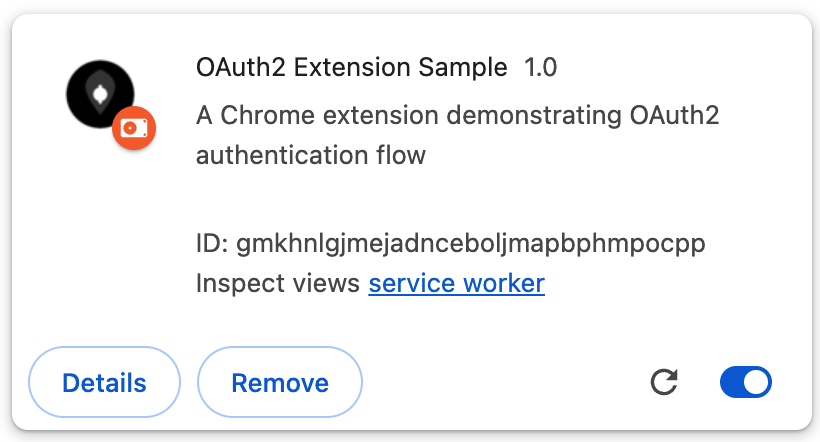
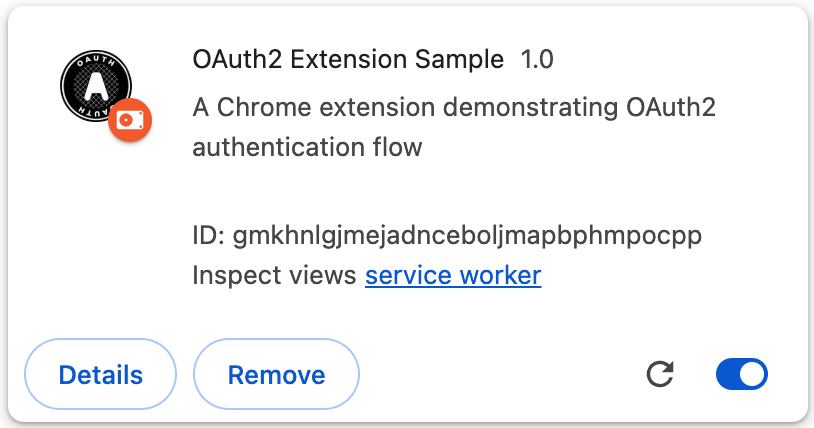
refine the project

diff --git a/auth-api/oauth2-extension-sample/popup.js b/auth-api/oauth2-extension-sample/popup.js
@@ -3,10 +3,10 @@ const config = {
   clientId: 'YOUR_CLIENT_ID', // Replace with your OAuth2 client ID
   clientSecret: 'YOUR_CLIENT_SECRET', // Replace with your OAuth2 client secret
   redirectUri: chrome.identity.getRedirectURL(),
-  authEndpoint: 'http://hostname:8080/MicroStrategyLibrary/oauth2/authorize', // Replace with your OAuth2 authorization endpoint
-  tokenEndpoint: 'http://hostname:8080/MicroStrategyLibrary/oauth2/token', // Replace with your OAuth2 token endpoint
+  authEndpoint: 'https://hostname:8080/MicroStrategyLibrary/oauth2/authorize', // Replace with your OAuth2 authorization endpoint
+  tokenEndpoint: 'https://hostname:8080/MicroStrategyLibrary/oauth2/token', // Replace with your OAuth2 token endpoint
   scope: 'offline_access',
-  testApiUrl: 'http://hostname:8080/MicroStrategyLibrary/api/sessions/userInfo' // Replace with your API endpoint
+  testApiUrl: 'https://hostname:8080/MicroStrategyLibrary/api/sessions/userInfo' // Replace with your API endpoint
 };
 
 // PKCE Utility Functions

diff --git a/auth-api/oauth2-extension-sample/background.js b/auth-api/oauth2-extension-sample/background.js
@@ -2,7 +2,7 @@
 const config = {
   clientId: 'YOUR_CLIENT_ID', // Replace with your OAuth2 client ID
   clientSecret: 'YOUR_CLIENT_SECRET', // Replace with your OAuth2 client secret
-  tokenEndpoint: 'http://hostname:8080/MicroStrategyLibrary/oauth2/token' // Replace with your OAuth2 token endpoint
+  tokenEndpoint: 'https://hostname:8080/MicroStrategyLibrary/oauth2/token' // Replace with your OAuth2 token endpoint
 };
 
 // Listen for installation

diff --git a/auth-api/oauth2-extension-sample/README.md b/auth-api/oauth2-extension-sample/README.md
@@ -1,6 +1,6 @@
 # OAuth2 Extension Sample
 
-![Extension Icon](images/icon128.png "OAuth2 Extension Icon")
+<img src="./images/icon.png" alt="OAuth2 Extension Icon" width="100" height="100">
 
 This Chrome extension demonstrates how to implement Strategy Library OAuth2 authentication in a Chrome extension. It provides a simple interface for users to authenticate with the Strategy Library and manage their authentication state.
 
@@ -48,10 +48,10 @@ const config = {
   clientId: 'YOUR_CLIENT_ID',           // Your OAuth2 client ID
   clientSecret: 'YOUR_CLIENT_SECRET',   // Your OAuth2 client secret
   redirectUri: chrome.identity.getRedirectURL(),
-  authEndpoint: 'http://hostname:8080/MicroStrategyLibrary/oauth2/authorize', // Your OAuth2 authorization endpoint
-  tokenEndpoint: 'http://hostname:8080/MicroStrategyLibrary/oauth2/token',    // Your OAuth2 token endpoint
+  authEndpoint: 'https://hostname:8080/MicroStrategyLibrary/oauth2/authorize', // Your OAuth2 authorization endpoint
+  tokenEndpoint: 'https://hostname:8080/MicroStrategyLibrary/oauth2/token',    // Your OAuth2 token endpoint
   scope: 'offline_access',
-  testApiUrl: 'http://hostname:8080/MicroStrategyLibrary/api/sessions/userInfo' // Your Test API endpoint
+  testApiUrl: 'https://hostname:8080/MicroStrategyLibrary/api/sessions/userInfo' // Your Test API endpoint
 };
 ```
 
@@ -95,7 +95,7 @@ This extension implements PKCE (Proof Key for Code Exchange) for enhanced securi
 2. **Load the Extension**
    - Open Chrome and go to `chrome://extensions/`
    - Enable "Developer mode" in the top right
-   - Click "Load unpacked" and select the extension directory
+   - Click "Load unpacked" and select the extension directory of "oauth2-extension-sample"
 
 ## Usage
 
@@ -129,25 +129,6 @@ This extension implements PKCE (Proof Key for Code Exchange) for enhanced securi
 
 ### Test API View
 <img src="./images/ui-sh-test-api-view.png" alt="Extension Authenticated View" width="300" height="300">
-
-## Security Considerations
-
-- **PKCE Implementation**
-  - Secure code verifier generation
-  - SHA-256 code challenge
-  - Proper challenge/verifier flow
-  - Secure storage of verifier
-
-- **Token Management**
-  - Secure storage using Chrome's storage API
-  - Automatic token refresh
-  - Manual refresh capability
-  - Proper error handling
-
-- **Data Protection**
-  - Sensitive data is never exposed in the UI
-  - All network requests are made over HTTPS
-  - Secure token handling and storage
 
 ## Code Structure
 
